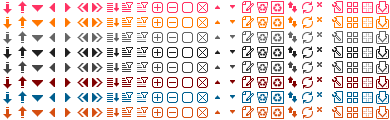
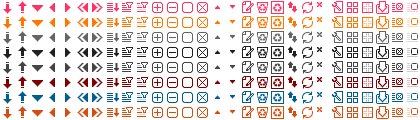
version 3.5.4 inputPage  . fix bug on page number & total page calculation CSS  . fix some bugs & improve clear theme
git-svn-id: http://piwigo.org/svn/extensions/GrumPluginClasses@17861 68402e56-0260-453c-a942-63ccdbb3a9ee

diff --git a/css/dynamicTable_clear.css b/css/dynamicTable_clear.css
@@ -33,7 +33,8 @@ div.ui-dynamicTableFilterButton-inactive,
 div.ui-dynamicTableFilterButton-active,
 div.ui-dynamicTableSortButton,
 div.ui-dynamicTableGroupButton-inactive,
-div.ui-dynamicTableGroupButton-active {
+div.ui-dynamicTableGroupButton-active,
+div.ui-dynamicTableFooter-saveButton {
   background-image:url(./../icons/buttons.png);
   background-repeat:no-repeat;
   background-color:transparent;
@@ -41,15 +42,16 @@ div.ui-dynamicTableGroupButton-active {
   color: #005e89;
   border-radius:2px;
 }
-
+/*
 div.ui-dynamicTableFilterButton-inactive:hover,
 div.ui-dynamicTableFilterButton-active:hover,
 div.ui-dynamicTableSortButton:hover,
 div.ui-dynamicTableGroupButton-inactive:hover,
-div.ui-dynamicTableGroupButton-active:hover {
+div.ui-dynamicTableGroupButton-active:hover,
+div.ui-dynamicTableFooter-saveButton:hover {
   background-color:#999999;
 }
-
+*/
 div.ui-dynamicTableFilterButton-inactive {
   background-position:-120px -90px;
 }
@@ -70,7 +72,7 @@ div.ui-dynamicTableSortButton {
 div.ui-dynamicTableSortButton:hover {
   background-position:-105px -105px;
 }
-
+/*
 div.ui-dynamicTableGroupButton-active {
   background-position:-360px -90px;
 }
@@ -82,4 +84,26 @@ div.ui-dynamicTableGroupButton-inactive {
 }
 div.ui-dynamicTableGroupButton-inactive:hover {
   background-position:-345px -105px;
+}
+*/
+
+div.ui-dynamicTableGroupButton-active {
+  background-position:-405px -90px;
+}
+div.ui-dynamicTableGroupButton-active:hover {
+  background-position:-405px -105px;
+}
+div.ui-dynamicTableGroupButton-inactive {
+  background-position:-390px -90px;
+}
+div.ui-dynamicTableGroupButton-inactive:hover {
+  background-position:-390px -105px;
+}
+
+
+div.ui-dynamicTableFooter-saveButton {
+  background-position:-375px -90px;
+}
+div.ui-dynamicTableFooter-saveButton:hover {
+  background-position:-375px -105px;
 }

diff --git a/js/ui.dynamicTable.js b/js/ui.dynamicTable.js
@@ -773,7 +773,7 @@
           privateMethods.setDialogsButtons(object, (value.dialogsButtons!=null)?value.dialogsButtons:options.dialogsButtons);
           privateMethods.setPagesNavigator(object, (value.pagesNavigator!=null)?value.pagesNavigator:options.pagesNavigator);
           //privateMethods.setCurrentPage(object, (value.currentPage!=null)?value.currentPage:options.currentPage);
-          //privateMethods.setNbItemsPage(object, (value.nbItemsPage!=null)?value.nbItemsPage:options.nbItemsPage);
+          privateMethods.setNbItemsPage(object, (value.nbItemsPage!=null)?value.nbItemsPage:options.nbItemsPage);
 
           privateMethods.setEventContentLoading(object, (value.contentLoading!=null)?value.contentLoading:options.contentLoading);
           privateMethods.setEventContentLoaded(object, (value.contentLoaded!=null)?value.contentLoaded:options.contentLoaded);

diff --git a/css/dynamicTable_roma.css b/css/dynamicTable_roma.css
@@ -72,7 +72,7 @@ div.ui-dynamicTableSortButton {
 div.ui-dynamicTableSortButton:hover {
   background-position:-105px 0px;
 }
-
+/*
 div.ui-dynamicTableGroupButton-active {
   background-position:-360px -15px;
 }
@@ -85,6 +85,23 @@ div.ui-dynamicTableGroupButton-inactive {
 div.ui-dynamicTableGroupButton-inactive:hover {
   background-position:-345px 0px;
 }
+*/
+
+/* group button => display/hide lines */
+div.ui-dynamicTableGroupButton-active {
+  background-position:-405px -15px;
+}
+div.ui-dynamicTableGroupButton-active:hover {
+  background-position:-405px 0px;
+}
+div.ui-dynamicTableGroupButton-inactive {
+  background-position:-390px -15px;
+}
+div.ui-dynamicTableGroupButton-inactive:hover {
+  background-position:-390px 0px;
+}
+
+
 
 div.ui-dynamicTableFooter-saveButton {
   background-position:-375px -15px;

diff --git a/js/ui.inputPages.js b/js/ui.inputPages.js
@@ -54,7 +54,7 @@
                   options =
                     {
                       nbItems:0,
-                      nbITemsPage:50,
+                      nbItemsPage:50,
                       currentPage:1,
                       displayedPages:7,
                       showButtons:{
@@ -550,7 +550,7 @@
           var options=object.data('options'),
               properties=object.data('properties');
 
-          properties.nbPages=Math.ceil(options.nbItems/options.nbITemsPage);
+          properties.nbPages=Math.ceil(options.nbItems/options.nbItemsPage);
         }, // calculateNbPages
 
       refreshPages : function (object)

diff --git a/css/progressArea_clear.css b/css/progressArea_clear.css
@@ -17,7 +17,7 @@
 
 .ui-progressArea-globalBarProgress,
 .ui-progressArea-detailBarProgress {
-  background:#f9f9f9;
+  background:#999999;
 }
 
 .ui-progressArea-workInProgress {
@@ -27,12 +27,13 @@
 
 /* dialog box */
 .ui-dialogProgressArea {
-  background:#AAAAAA;
+  color:#666666;
+  background:#DDDDDD;
   border:1px solid #999999;
 }
 .ui-dialogProgressArea div.ui-dialog-titlebar {
-  background:#DDDDDD;
-  color:#666666;
+  background:#999999;
+  color:#444444; /* #666666 is too light... */
 }
 .ui-dialogProgressArea div.ui-dialog-buttonpane button {
   background:none repeat scroll 0 0 #999999;
